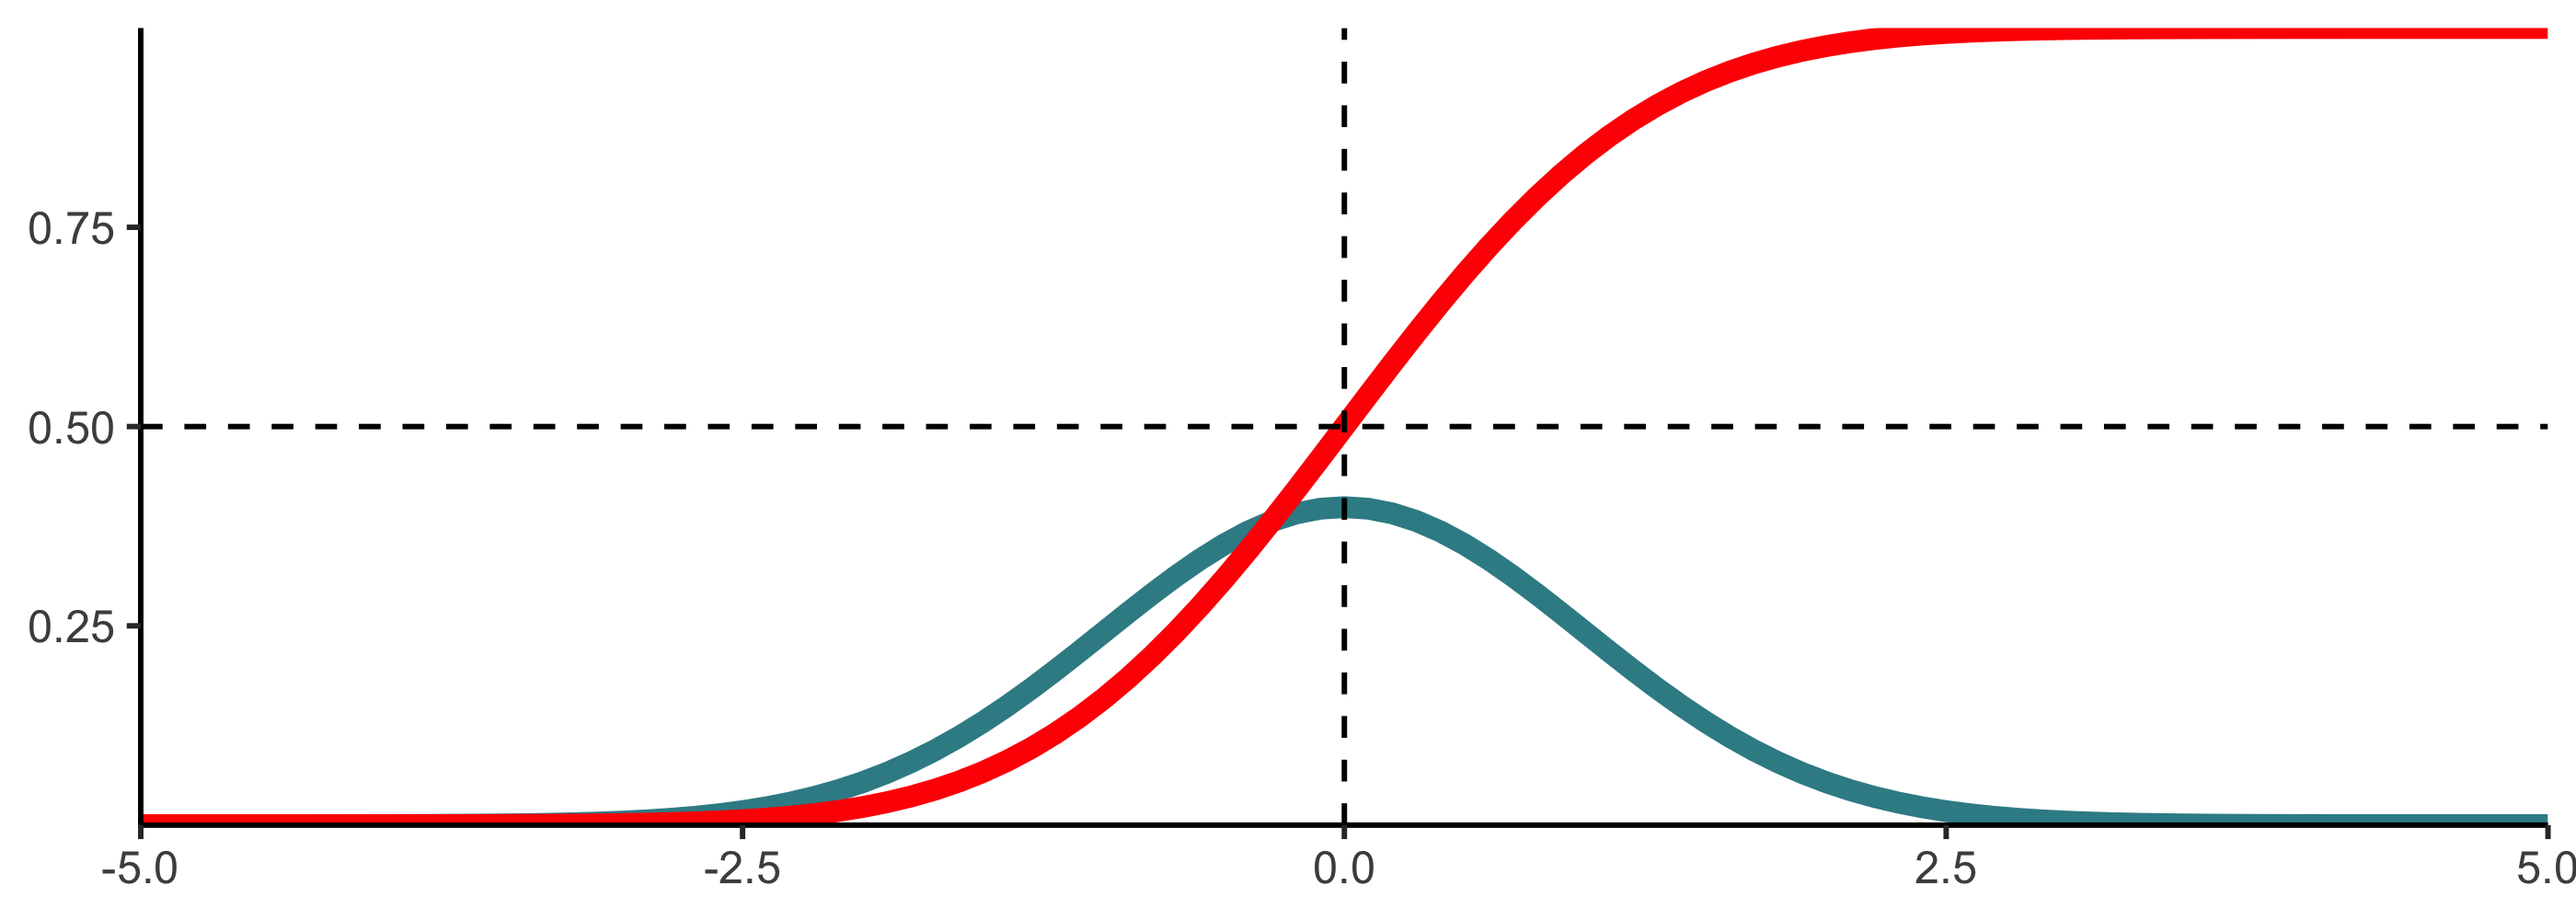
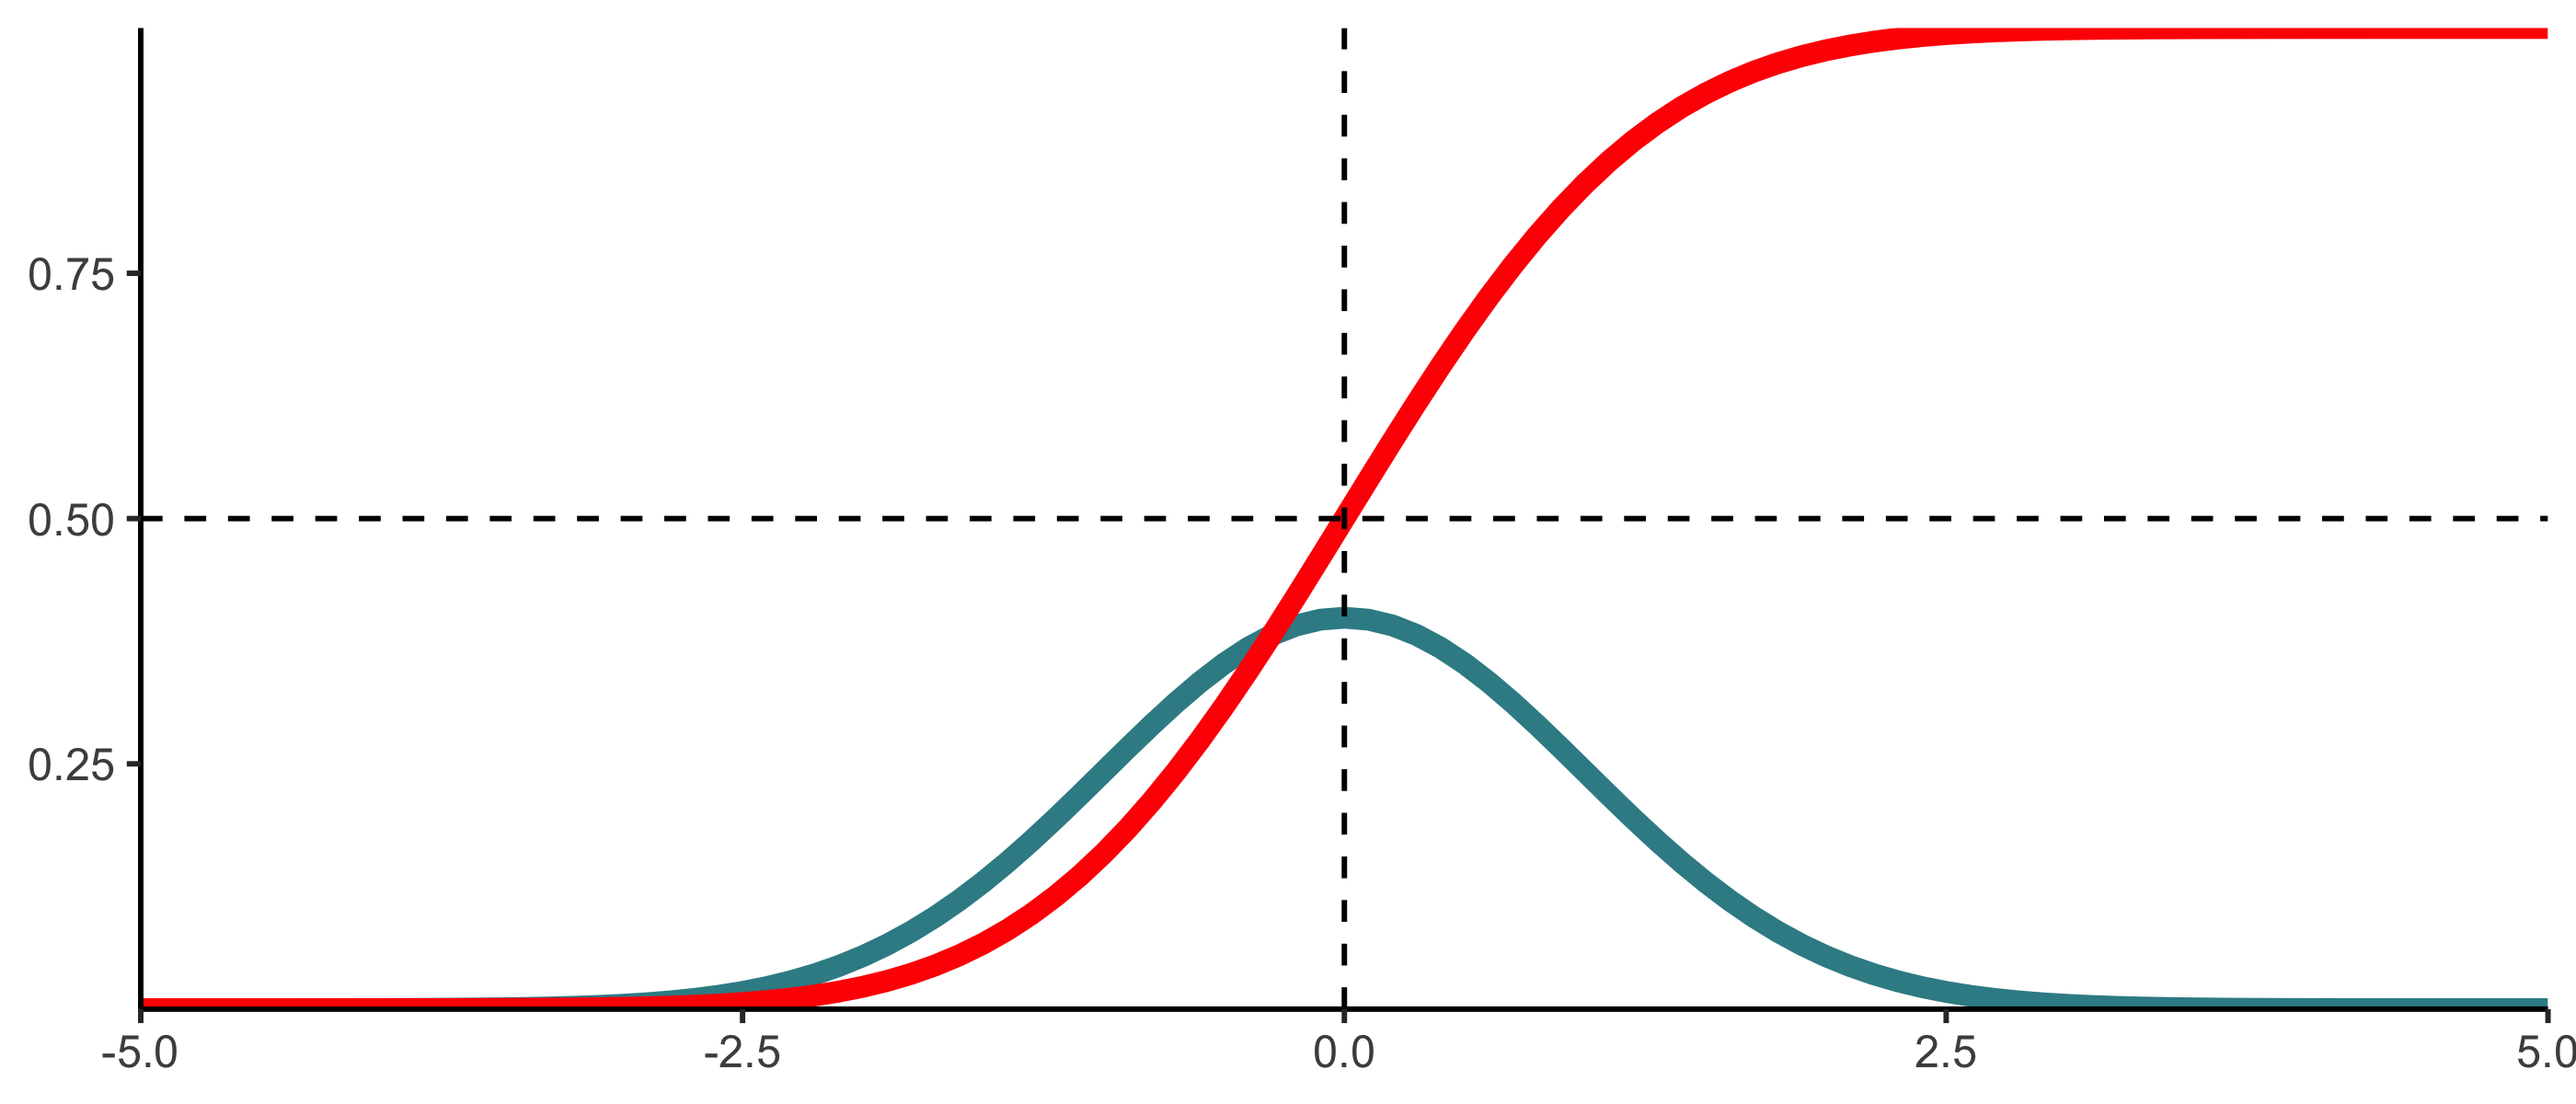
update slide layout

diff --git a/inferential-statistics.html b/inferential-statistics.html
@@ -482,13 +482,17 @@ shiny::runGitHub("statistical-estimation",
 
 You need to install 4 packages to use it: `shiny`, `shinydashboard`, `shinyWidgets` &amp; `tidyverse`
 
+---
+
+## Normal distribution
+
+.blue[Density] function:
+
 `$$f(x)=\frac{1}{\sigma \sqrt{2 \pi}} e^{-\frac{1}{2}\left(\frac{x-\mu}{\sigma}\right)^2}$$`
-˜˜
---
 
 **Distribution** and **.blue[density]** function of normal distribution
 
-&lt;img src="inferential-statistics_files/figure-html/unnamed-chunk-23-1.png" height="250" style="display: block; margin: auto;" /&gt;
+&lt;img src="inferential-statistics_files/figure-html/unnamed-chunk-23-1.png" height="300" style="display: block; margin: auto;" /&gt;
 
 ---
 
